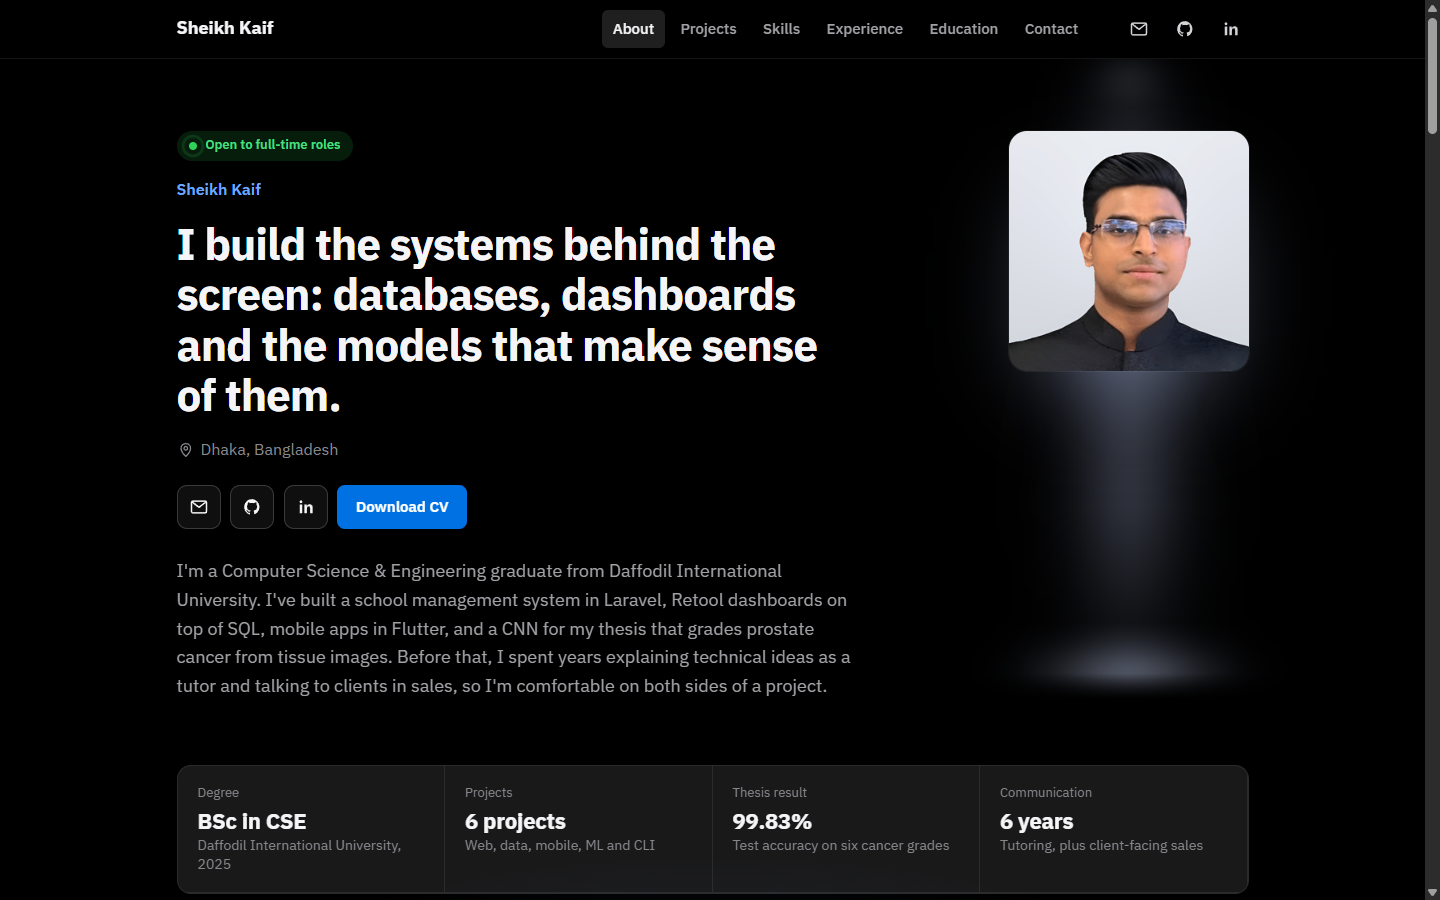
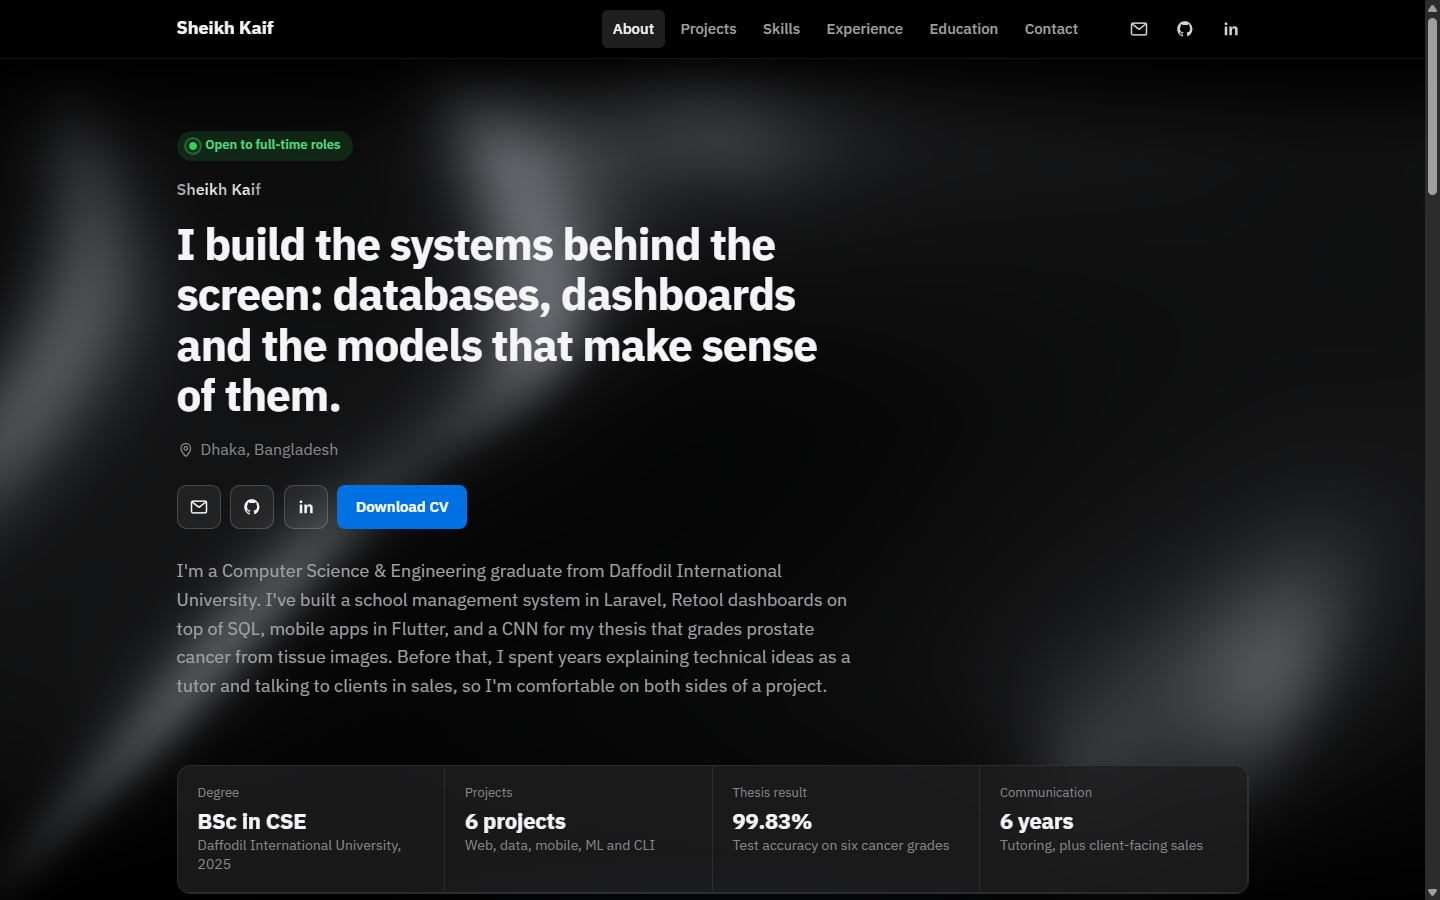
Simplify README and update screenshot

diff --git a/README.md b/README.md
@@ -1,73 +1,33 @@
 # Sheikh Kaif – Portfolio
 
-Personal portfolio of **Sheikh Kaif**, a Computer Science & Engineering graduate from Daffodil International University based in Dhaka, Bangladesh. I work on backends, data tools, mobile apps and machine learning.
+Personal portfolio of Sheikh Kaif, a CSE graduate working on backends, data tools, mobile apps and machine learning.
 
 **Live site:** https://kaif15-14682.github.io/Personal-Portfolio/
 
-![Screenshot of the portfolio home page](assets/screenshot.png)
+![Portfolio home page](assets/screenshot.png)
 
-## What's on the site
+## Tech
 
-- **About:** a short introduction, my location, contact links, and a strip of key facts.
-- **Projects:** six projects you can filter by area. Each one comes with a visual that shows how it works.
-- **Skills:** a table that links each skill to the projects where I used it.
-- **Experience:** a timeline of work and research.
-- **Education & achievements:** degree and competitions.
-- **Contact:** email, plus a button that copies my address.
+HTML, CSS and plain JavaScript, with WebGL for the hero background. No framework and no build step.
 
-## Featured projects
-
-| Project | Area | Stack | Code |
-|---|---|---|---|
-| School management system | Web & backend | Laravel, PHP, MySQL, Tailwind CSS | [Repository](https://github.com/kaif15-14682/School_Management_system_Laravel) |
-| Operations dashboards | Data | Retool, SQL | Internal work |
-| ProstadeNet: prostate cancer grading (thesis) | Machine learning | Python, TensorFlow, Keras, OpenCV | Report on request |
-| Flutter apps: weather, quiz, calculator, combined | Mobile | Flutter, Dart, REST APIs | [Weather](https://github.com/kaif15-14682/Weather_App_Flutter) · [Quiz](https://github.com/kaif15-14682/Quiz_App_flutter) · [Calculator](https://github.com/kaif15-14682/Calculator_App_flutter) · [Combined](https://github.com/kaif15-14682/Combined_App_Flutter) |
-| Stroke risk prediction | Machine learning | Python, pandas, scikit-learn | [Repository](https://github.com/kaif15-14682/Machine-Learning-project-for-AI) |
-| Command-line password manager | Tools | Bash, OpenSSL | [Repository](https://github.com/kaif15-14682/Password-manager-using-bash) |
-
-## Built with
-
-- HTML, CSS and plain JavaScript: no framework and no build step
-- [IBM Plex Sans and IBM Plex Mono](https://fonts.google.com/specimen/IBM+Plex+Sans) from Google Fonts
-- Hand-written SVG for the charts and icons
-
-Features:
-
-- Works on phones and desktops
-- Can be used with a keyboard alone
-- Turns off animations for visitors who prefer reduced motion
-
-## Project structure
-
-```
-Personal-Portfolio/
-├── index.html          Page content
-├── styles.css          Layout and colours (colour values are at the top)
-├── script.js           Project filters, tabs, ablation chart, terminal animation, copy-email button
-├── assets/
-│   ├── profile.jpg     Portrait
-│   ├── favicon.svg     Browser tab icon
-│   ├── Sheikh_Kaif_CV.pdf  Downloadable CV
-│   └── screenshot.png  Image used in this README
-└── README.md
-```
-
-## Run it locally
-
-Clone the repository and open `index.html` in a browser:
+## Run locally
 
 ```bash
 git clone https://github.com/kaif15-14682/Personal-Portfolio.git
 cd Personal-Portfolio
 ```
 
-### Update the CV
+Open `index.html` in a browser.
 
-Open `assets/Sheikh_Kaif_CV.pdf` and click on the PDF. The **Download CV** button shows only after you open the Portfolio Link.
+## Structure
+
+```
+index.html      Page content
+styles.css      Styles
+script.js       Interactions and animations
+assets/         CV, favicon and screenshot
+```
 
 ## Contact
 
-- Email: [sheikhkaif977@gmail.com](mailto:sheikhkaif977@gmail.com)
-- LinkedIn: [sheikh-kaif-5bb86720b](https://www.linkedin.com/in/sheikh-kaif-5bb86720b)
-- GitHub: [kaif15-14682](https://github.com/kaif15-14682)
+[Email](mailto:sheikhkaif977@gmail.com) · [LinkedIn](https://www.linkedin.com/in/sheikh-kaif-5bb86720b) · [GitHub](https://github.com/kaif15-14682)
